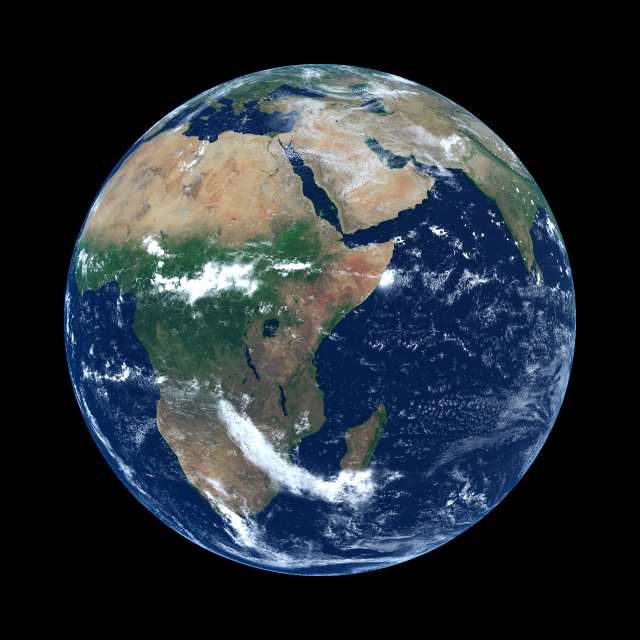
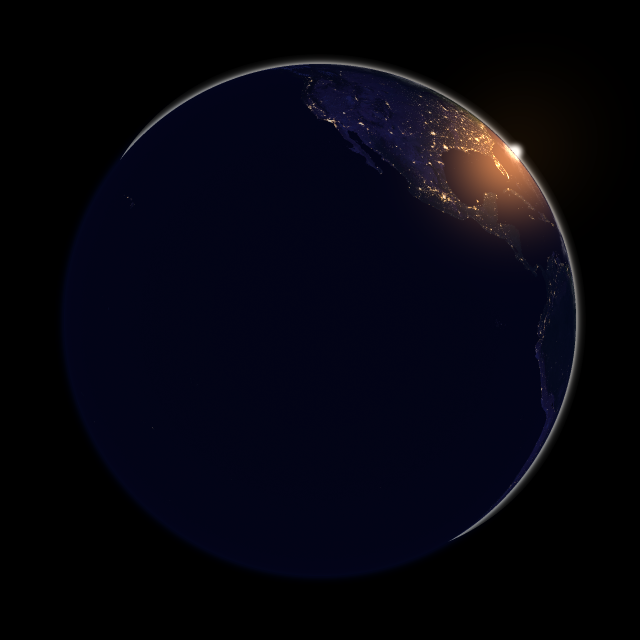
more tests

diff --git a/render/renderer.go b/render/renderer.go
@@ -223,7 +223,7 @@ func ApplyAtmosphereOverlay(ctx *RayContext, base colors.Color4) colors.Color4 {
 		return base
 	}
 
-	viewDot := Clip(ctx.ViewDotNormal, 0, 1)
+	viewDot := ctx.ViewDotNormal
 	rimAmount := math.Pow(1.0-viewDot, 3.0) * 0.3
 	rimColor := ctx.theme.DayRim.Mix(ctx.theme.OuterRim, rimAmount)
 
@@ -405,7 +405,7 @@ func SunVisibleFraction(camPos, sunDir vectors.Vec3) float64 {
 	thetaS := math.Asin(sunRadius / sunDistance)
 
 	// Angular separation
-	cosAngle := camPos.Normalize().Dot(sunDir.Scale(-1).Normalize())
+	cosAngle := camPos.Normalize().Dot(sunDir.Scale(-1))
 	d := math.Acos(Clip(cosAngle, -1.0, 1.0)) // angle between Earth center and Sun center in radians
 
 	// Convert angular radii to linear radii on unit sphere

diff --git a/main.go b/main.go
@@ -160,6 +160,8 @@ func testViews(theme render.Theme) {
 		panic(fmt.Errorf("failed to create test_outputs: %w", err))
 	}
 
+	renderAndSave("tests/night.png", 0, 180, 8800, fov, tilt, yaw, size, supersample, renderTime, theme)
+	renderAndSave("tests/full.png", 0, 0, 8800, fov, tilt, yaw, size, supersample, renderTime, theme)
 	renderAndSave("tests/sunrise.png", 0, 240, 8800, fov, tilt, yaw, size, supersample, renderTime, theme)
 }
 
